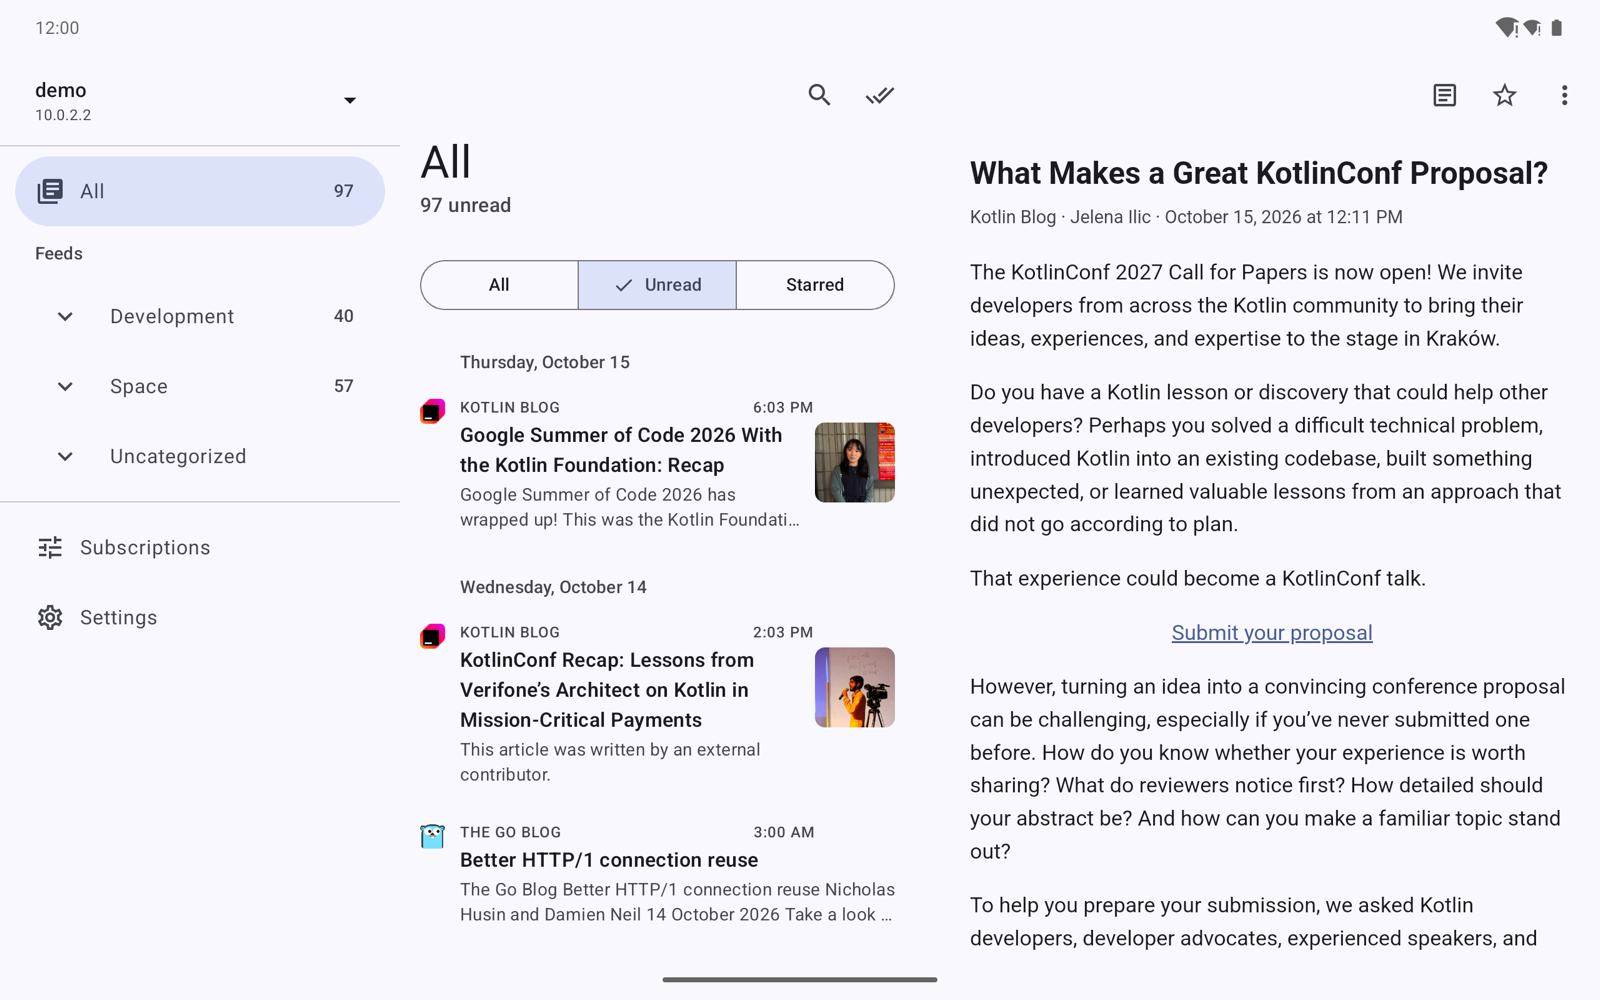
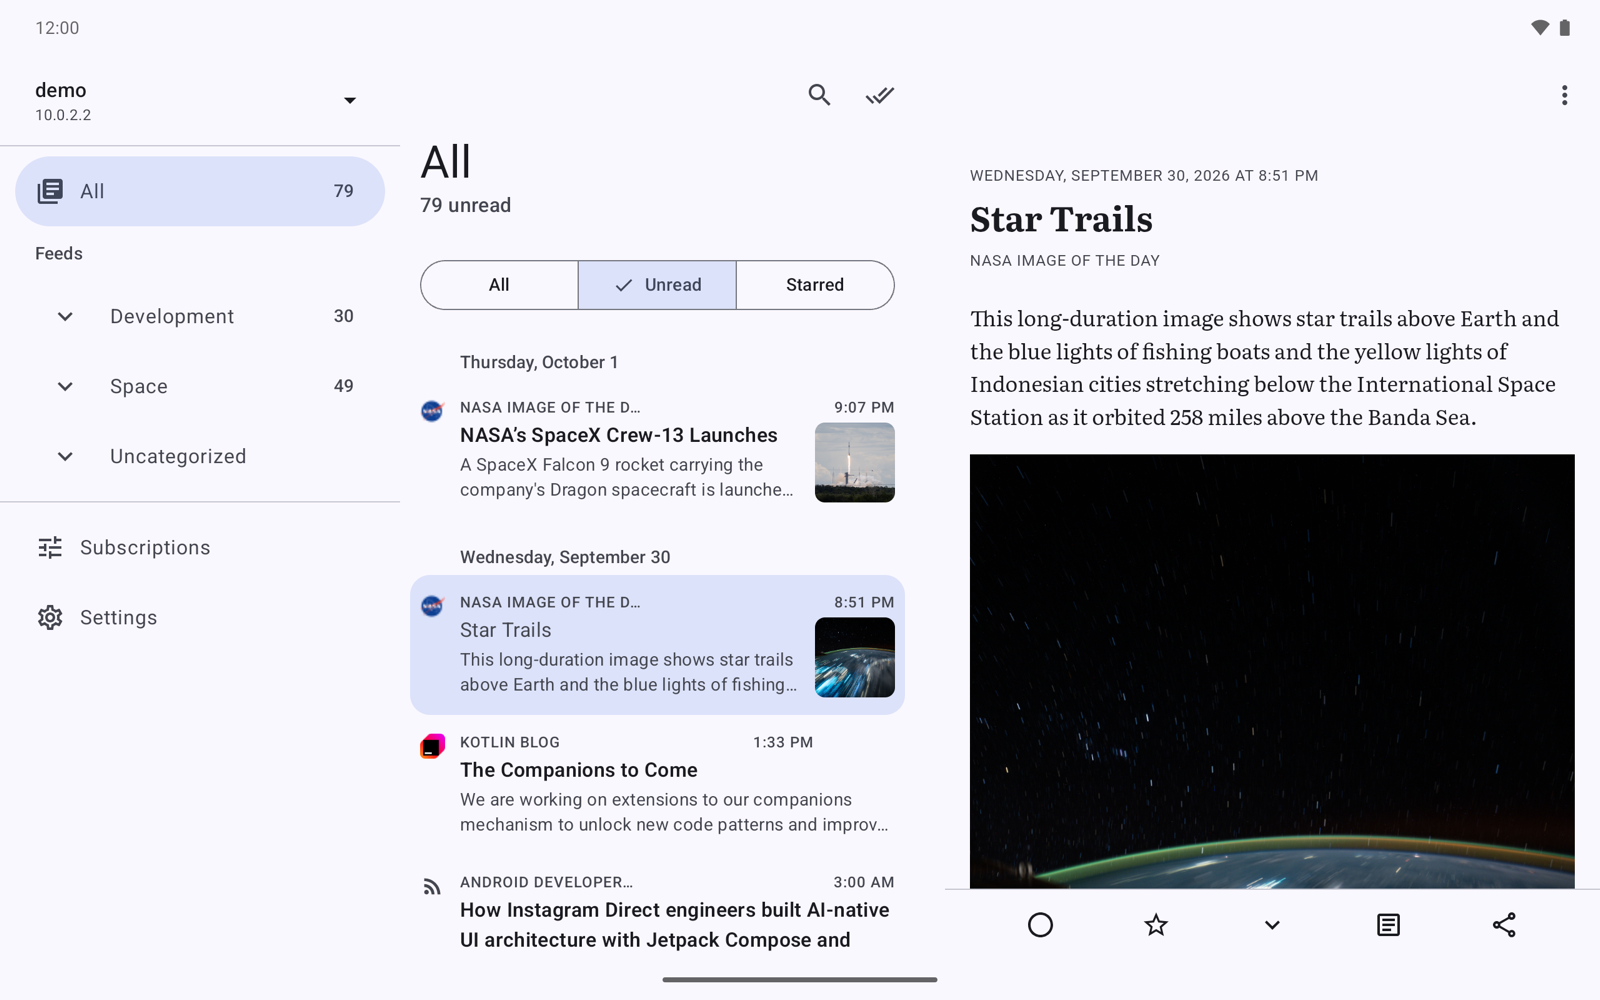
docs: tablet screenshot with the open entry in its list
Refs #9

diff --git a/README.md b/README.md
@@ -27,7 +27,7 @@ Brook keeps the subscriptions of your server on the phone and reads them without
 - Full text: the reader extracts the article from the page of the entry on the device. A feed can be set to always show full text; its articles are then downloaded ahead with the pictures.
 - Subscriptions: add a feed by address, rename it, move it to another category, unsubscribe; rename and delete categories and labels; import and export OPML.
 - Search of the downloaded entries by title and text.
-- Material 3 with dynamic color and a dark theme. On a tablet or an unfolded phone the list and the entry are side by side.
+- Material 3 with dynamic color and a dark theme. On a tablet or an unfolded phone the list and the entry are side by side; the open entry stays in an unread list until the scope or filter changes.
 
 <p>
   <img src="docs/screenshots/search.png" width="240" alt="Search">
